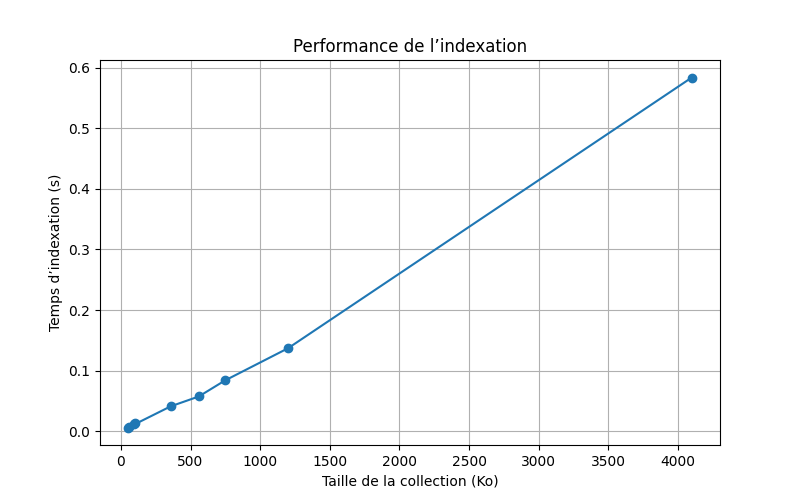
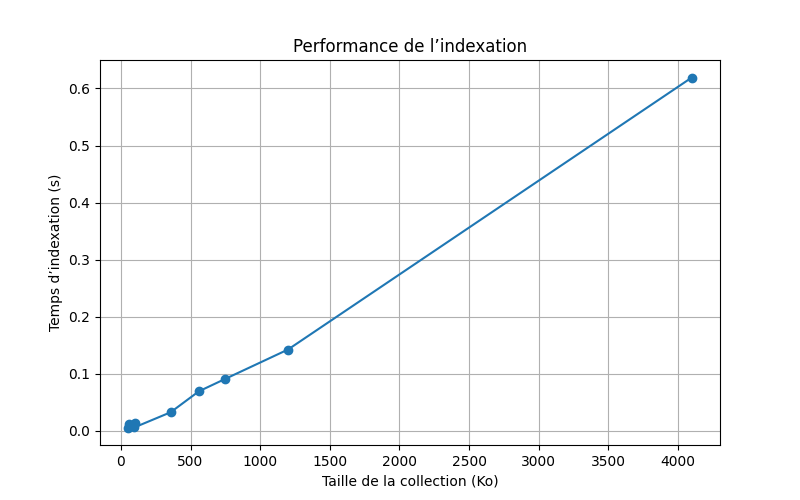
Adding stats for exo2

diff --git a/practice2/main.py b/practice2/main.py
@@ -102,25 +102,6 @@ def run_experiment(index, data_path, stopword=False, stemmer=False):
 
     return {"times": times, "terms": terms, "words": words, "chars": chars, "docs": docs}
 
-def avg_docs_length(counts_words, docs_ids):
-    """Calcule la longueur moyenne (#words/doc)"""
-    result = []
-    for words, docs in zip(counts_words, docs_ids):
-        n = len(docs)
-        result.append(words / n if n > 0 else 0)
-    return result
-
-def avg_terms_length(counts_chars, counts_words):
-    """Calcule la longueur moyenne (#chars/word)"""
-    result = []
-    for chars, words in zip(counts_chars, counts_words):
-        result.append(chars / words if words > 0 else 0)
-    return result
-
-def vocab_size(dictionary):
-    """Retourne la taille du vocabulaire (nombre de termes distincts)"""
-    return len(dictionary)
-
 def avg_terms_per_doc(counts_terms, docs_ids):
     """Calcule la longueur moyenne (#terms/doc)"""
     result = []
@@ -187,7 +168,7 @@ def main():
     print(f"Longueur moyenne des documents : {index.avg_document_length()} mots")
     print(f"Longueur moyenne des termes : {index.avg_term_length()} caractères")
     print(f"Le vocabulaire contient : {index.get_vocabulary_size()} termes distincts")
-    """
+    
     print("\n\t*************************************************")
     print("\t/          PERFORMANCE DE L'INDEXATION          /")
     print("\t*************************************************")
@@ -233,7 +214,7 @@ def main():
 
     plot_comparison("#mots", "#terms", "Vocabulary size vs collection size",
                     base["words"], base["terms"], stop["terms"], stem["terms"])
-    """
+    
 
 if __name__ == "__main__":
     main()
